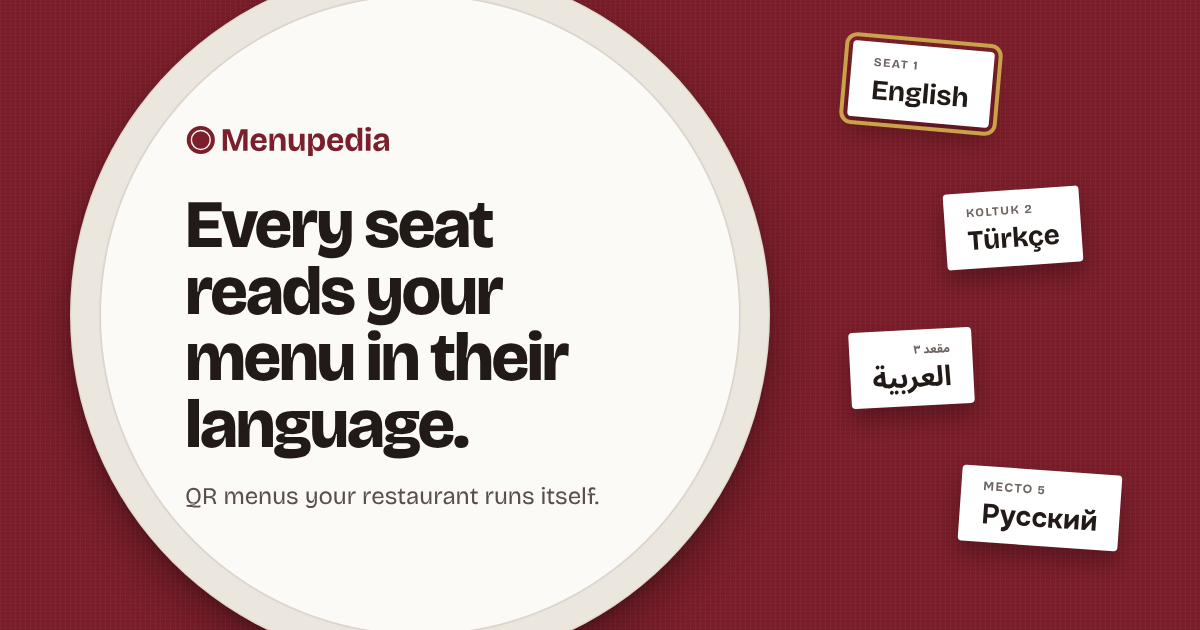
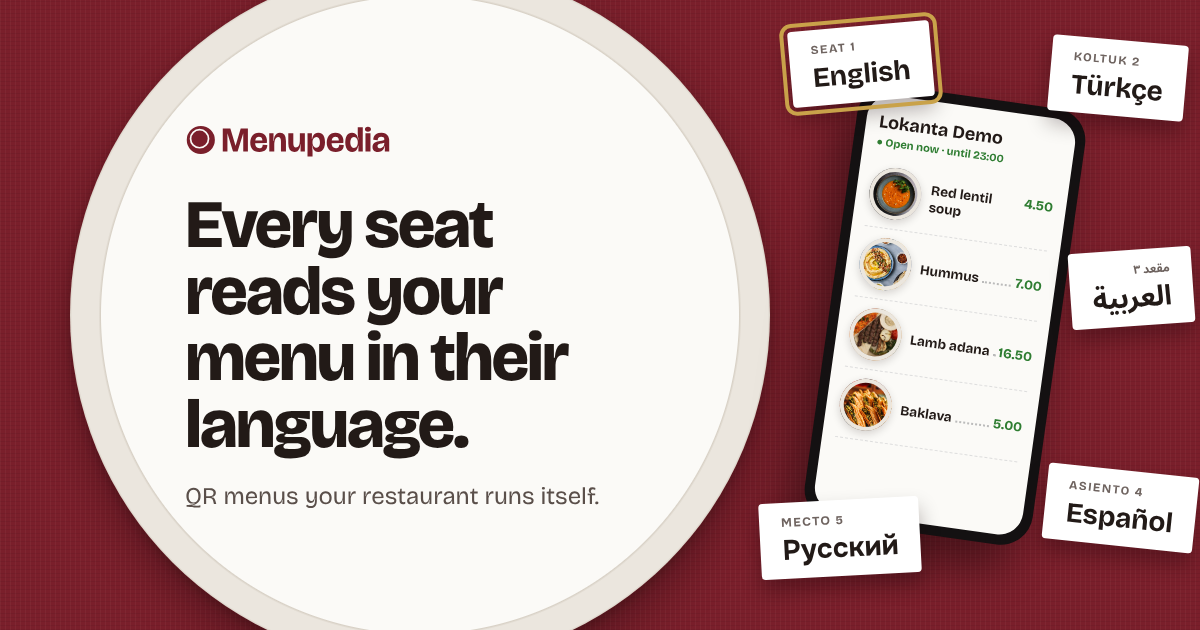
Fixes from design review and QA: weave, mark, link preview
A coarser thread breaks the cloth's even check; the mark's well sits
off centre so it reads as a plate, the wordmark is set at optical size
96; the link preview shows the demo phone and all five seats; Russian
pages set Onest first; sold-out prices are no longer struck through;
table buttons skip transitions with reduced motion.

-C.L.

Changed region(s): [[0.6167, 0.0, 1.0, 0.9349], [0.1542, 0.2111, 0.3392, 0.2413]]

diff --git a/src/app/[locale]/(table-preview)/table-preview/page.tsx b/src/app/[locale]/(table-preview)/table-preview/page.tsx
@@ -108,7 +108,7 @@ export default async function TablePreview({
           <div className="relative mx-auto -mt-10 h-[470px] w-[250px] rotate-4 rounded-[38px] bg-[#141112] p-3 shadow-[-18px_30px_50px_rgb(0_0_0/0.4)] lg:absolute lg:start-[820px] lg:top-[70px] lg:mt-0 lg:h-[590px] lg:w-[290px] lg:rotate-8 [[dir=rtl]_&]:-rotate-4 lg:[[dir=rtl]_&]:-rotate-8">
             <div className="bg-plate text-ink h-full overflow-hidden rounded-[28px] px-3.5 py-4">
               <p className="text-lg font-bold">Lokanta Demo</p>
-              <p className="mt-0.5 mb-3 text-[0.6875rem] font-bold text-[#2f7d32]">● {t.open}</p>
+              <p className="mt-0.5 mb-3 text-[0.6875rem] font-bold text-[#2f7d32] dark:text-[#7fcf83]">● {t.open}</p>
               <div className="flex gap-1">
                 {t.chips.map((c, i) => (
                   <span key={c} className={`rounded-full px-2.5 py-1.5 text-[0.6875rem] font-bold ${i === 0 ? "bg-[#2f7d32] text-white" : "bg-plate-rim"}`}>{c}</span>
@@ -118,8 +118,8 @@ export default async function TablePreview({
                 {t.dishes.map(([name, price, src], i) => (
                   <li key={name} className="relative grid grid-cols-[56px_1fr] items-center gap-2.5 border-b border-dashed border-[#ddd] py-2.5">
                     <PlatePhoto src={src} alt="" size={56} />
-                    <LeaderRow name={name} price={price} muted={i === 3} nameClassName="text-[0.84rem]" priceClassName={i === 3 ? "" : "text-[#2f7d32]"} />
-                    {i === 3 ? <Stamp className="absolute start-0 top-8 text-[0.6875rem]">{t.soldOut}</Stamp> : null}
+                    <LeaderRow name={name} price={price} muted={i === 3} nameClassName="text-[0.84rem]" priceClassName={i === 3 ? "" : "text-[#2f7d32] dark:text-[#7fcf83]"} />
+                    {i === 3 ? <Stamp className="absolute start-0 top-8 px-1 text-[0.6875rem] tracking-normal">{t.soldOut}</Stamp> : null}
                   </li>
                 ))}
               </ul>

diff --git a/src/components/ui/button.tsx b/src/components/ui/button.tsx
@@ -23,9 +23,9 @@ const buttonVariants = cva(
         // The Table (public site; inside <TableWorld> only): a cloth-red
         // pill on porcelain, and a white one on the cloth.
         table:
-          "bg-cloth-action text-on-cloth shadow-[0_2px_6px_rgb(20_4_8/0.2)] hover:brightness-110 active:translate-y-px focus-visible:ring-0 focus-visible:outline-3 focus-visible:outline-offset-3 focus-visible:outline-solid focus-visible:outline-[var(--table-focus)]",
+          "bg-cloth-action text-on-cloth shadow-[0_2px_6px_rgb(20_4_8/0.2)] transition-[filter,translate,box-shadow] motion-reduce:transition-none hover:brightness-110 active:translate-y-px focus-visible:ring-0 focus-visible:outline-3 focus-visible:outline-offset-3 focus-visible:outline-solid focus-visible:outline-[var(--table-focus)]",
         tableOnCloth:
-          "bg-place-card text-cloth shadow-[0_2px_6px_rgb(20_4_8/0.25)] hover:bg-plate-rim active:translate-y-px focus-visible:ring-0 focus-visible:outline-3 focus-visible:outline-offset-3 focus-visible:outline-solid focus-visible:outline-[var(--table-focus)]",
+          "bg-place-card text-cloth shadow-[0_2px_6px_rgb(20_4_8/0.25)] transition-[background-color,translate,box-shadow] motion-reduce:transition-none hover:bg-plate-rim active:translate-y-px focus-visible:ring-0 focus-visible:outline-3 focus-visible:outline-offset-3 focus-visible:outline-solid focus-visible:outline-[var(--table-focus)]",
       },
       size: {
         default: "h-9 px-4 py-2 has-[>svg]:px-3",

diff --git a/src/styles/globals.css b/src/styles/globals.css
@@ -383,6 +383,14 @@
     outline-offset: 3px;
   }
 
+  /* Russian pages set Latin words ("QR-код") in Onest too, so a line
+     never mixes two faces. */
+  .table-world:lang(ru) {
+    --table-font:
+      var(--font-onest), var(--font-noto-arabic), ui-sans-serif, system-ui,
+      sans-serif;
+  }
+
   /* Arabic letters join: never letter-space them (eyebrows, stamps). */
   .table-world :lang(ar) {
     letter-spacing: 0 !important;
@@ -396,9 +404,13 @@
   .table-cloth {
     --table-focus: var(--table-brass);
     background-color: var(--table-cloth);
+    /* A third, coarser thread at a prime period breaks the even check
+       into something closer to linen. */
     background-image:
       repeating-linear-gradient(0deg, rgb(0 0 0 / 0.055) 0 1px, transparent 1px 4px),
-      repeating-linear-gradient(90deg, rgb(255 255 255 / 0.035) 0 1px, transparent 1px 5px);
+      repeating-linear-gradient(90deg, rgb(255 255 255 / 0.035) 0 1px, transparent 1px 5px),
+      repeating-linear-gradient(0deg, rgb(255 255 255 / 0.025) 0 1px, transparent 1px 13px),
+      repeating-linear-gradient(90deg, rgb(0 0 0 / 0.035) 0 2px, transparent 2px 17px);
     color: var(--table-on-cloth);
   }
   .table-cloth[data-tone="deep"] {

diff --git a/src/components/table/LeaderRow.tsx b/src/components/table/LeaderRow.tsx
@@ -49,7 +49,6 @@ export function LeaderRow({
         <span
           className={cn(
             "shrink-0 text-[0.9375rem] font-bold whitespace-nowrap tabular-nums",
-            muted && "line-through decoration-1",
             priceClassName,
           )}
         >

diff --git a/DESIGN.md b/DESIGN.md
@@ -52,8 +52,9 @@ brass-ink by default (porcelain, paper, off-white), brass on the cloth
 
 ## Material
 
-- **Cloth** (`.table-cloth`, `<Cloth>`): two hairline repeating gradients,
-  warp and weft, over the cloth colour. No images, no SVG noise; painted once
+- **Cloth** (`.table-cloth`, `<Cloth>`): hairline repeating gradients, warp
+  and weft, plus a coarser thread at prime periods (13, 17 px) so the weave
+  reads as linen, not graph paper. No images, no SVG noise; painted once
   per layer, so scrolling is unaffected. `tone="deep"` for the darker cloth.
 - **Plate** (`.table-plate`, `<Plate>`): a radial gradient draws the well,
   the rim (9% of the radius) and the thin shadow line where the rim rises;
@@ -86,7 +87,8 @@ brass-ink by default (porcelain, paper, off-white), brass on the cloth
   so Russian falls through to Onest, a friendly grotesk of similar build.
 - **Noto Sans Arabic** (variable): Arabic.
 
-One stack (`--table-font`) for every locale: the browser picks the face per
+One stack (`--table-font`) for every locale (Russian pages put Onest first,
+so Latin words in Russian text share its face): the browser picks the face per
 script by unicode-range, so an Arabic place card on an English page is set in
 Noto Sans Arabic, and a page only downloads the scripts it shows. Fonts are
 declared in `src/components/table/fonts.ts`, not the root layout, so only
@@ -109,8 +111,10 @@ instantly.
 `public/brand/menupedia-wordmark.svg` (cloth red, for light grounds) and
 `menupedia-wordmark-dark.svg` (porcelain, for the cloth and dark mode). The
 mark is a plate seen from above: a disc with the well's edge cut out as a
-thin ring (even-odd, transparent, so it sits on any ground). "Menupedia" is
-Bricolage Grotesque 700 at optical size 48, converted to outlines, so it
+thin ring (even-odd, transparent, so it sits on any ground). The well sits
+slightly up and to the start, so the rim reads as a lit crescent rather than
+a centred dot. "Menupedia" is Bricolage Grotesque 700 at optical size 96,
+converted to outlines, so it
 renders without the font. viewBox 469 x 100, the same proportions as the old
 logo, so the navbar and footer only changed their `src`. **Pending the
 owner's approval.**
@@ -125,16 +129,27 @@ All made once on 2026-11-09 by Chrollo; no image generation, no stock.
 
 | File | Size | How |
 |---|---|---|
-| `public/brand/menupedia-wordmark*.svg` | 469 x 100 | Node script with opentype.js: the static instance of Bricolage Grotesque (opsz 48, wght 700) from Google Fonts (SIL Open Font License), text to SVG paths; the mark drawn as SVG circles. |
+| `public/brand/menupedia-wordmark*.svg` | 469 x 100 | Node script with opentype.js: the static instance of Bricolage Grotesque (opsz 96, wght 700) from Google Fonts (SIL Open Font License), text to SVG paths; the mark drawn as SVG circles. |
 | `public/icon.svg` | 64 x 64 | the mark in porcelain on a cloth-red rounded square |
 | `public/favicon.ico` | 32 x 32 | Playwright screenshot of the square mark (no rounded corners), wrapped as a PNG-in-ICO |
 | `public/apple-icon.png` | 180 x 180 | Playwright screenshot of the square mark |
 | `public/icon-192.png`, `icon-512.png` | 192, 512 | same; the plate stays inside the maskable safe zone |
-| `public/og-image.png` | 1200 x 630 | Playwright screenshot of an HTML template: the cloth texture, a plate with the wordmark, the headline "Every seat reads your menu in their language." and four place cards (English, Türkçe, العربية, Русский), set in Bricolage Grotesque, Onest and Noto Sans Arabic |
+| `public/og-image.png` | 1200 x 630 | Playwright screenshot of an HTML template: the cloth texture, a plate with the wordmark, the headline "Every seat reads your menu in their language.", the Lokanta Demo phone (demo dishes, photos from `public/demo/`) and five place cards (English ringed, Türkçe, العربية, Español, Русский), set in Bricolage Grotesque, Onest and Noto Sans Arabic |
 
 ## Open
 
 - Wordmark and colours need the owner's approval.
+- Decisions raised to the lead: the eyebrow above the headline (the contract
+  asks for it; the design skill bans it) and the dark-mode plate (built as
+  the ticket asked, warm dark porcelain; the design review prefers dimmed
+  porcelain).
+- Ticket 2 (from the reviews of the preview): lay the first viewport out
+  relative to its container (fixed px clip cards and phone from 1024 to
+  ~1310 px); keep hero copy inside the plate at 320 px; a looser line height
+  for Arabic headlines; restaurant brand colours on the dark plate need a
+  contrast guard; set the public pages' html/body background to the cloth.
+- Arabic and Cyrillic faces are not preloaded on /ar and /ru (one font
+  instance serves all locales); the Arabic headline swaps in after load.
 - Radix portals (dropdowns, dialogs) render into `<body>`, outside
   `<TableWorld>`: give portal content its own `table-world` class, or put
   the class on a public-only layout that hosts them.
